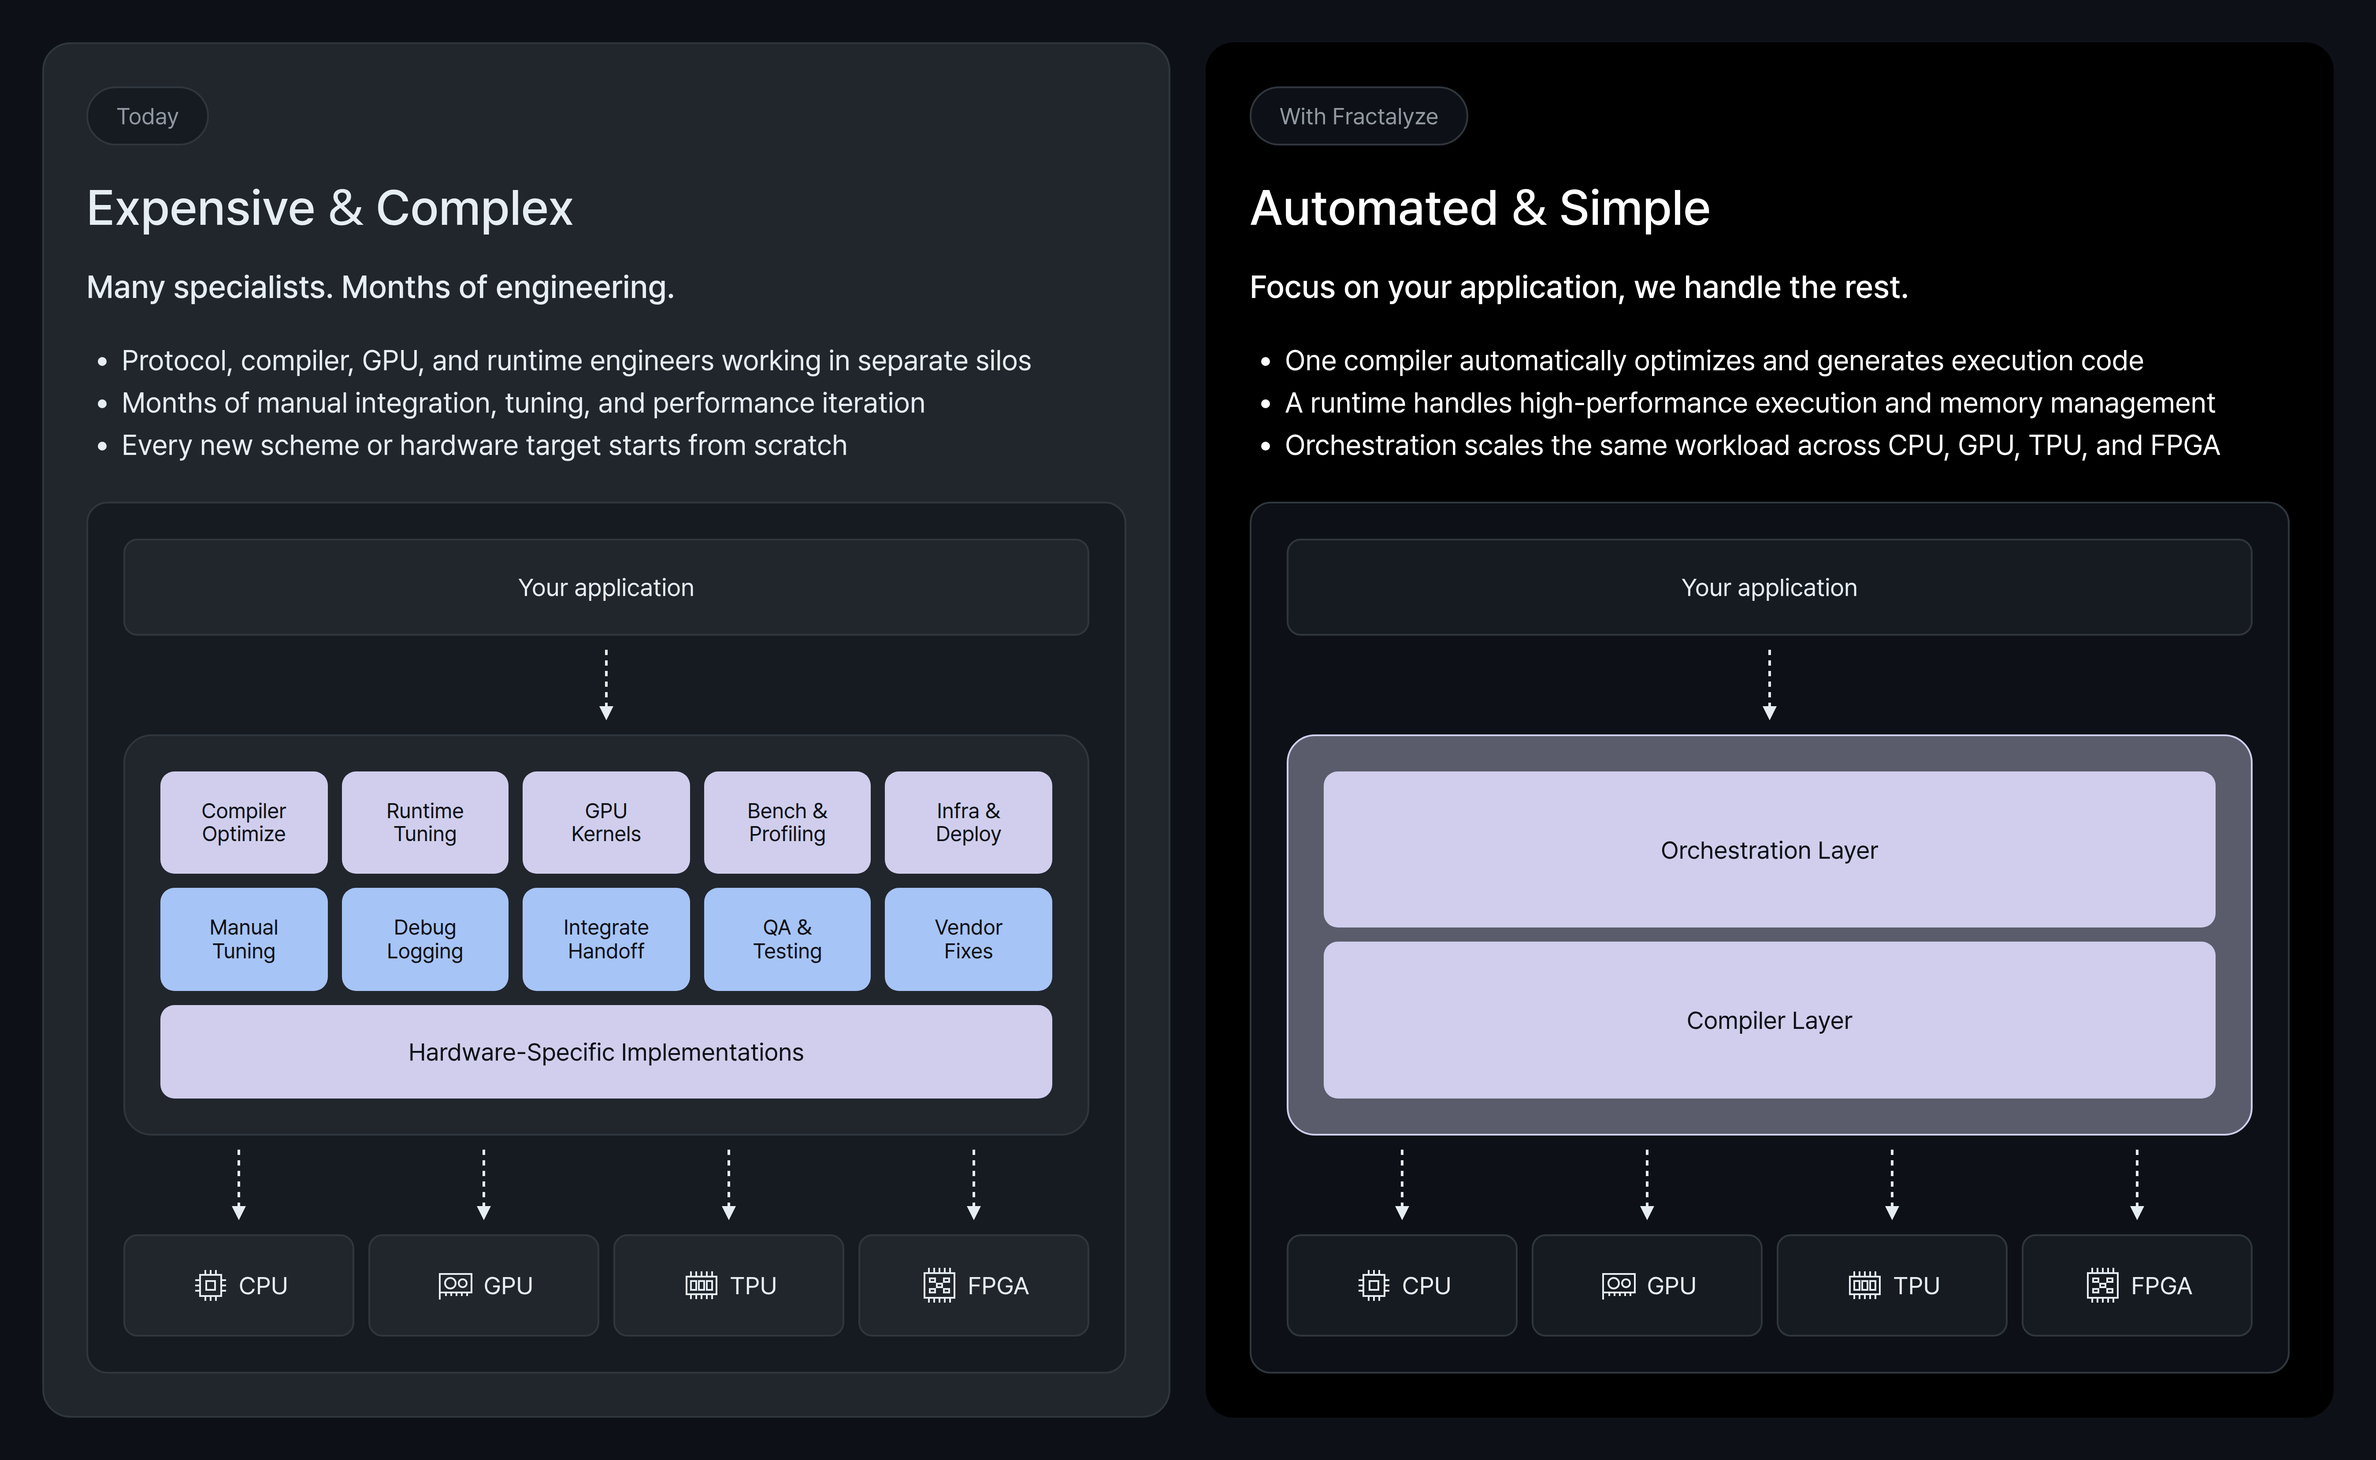
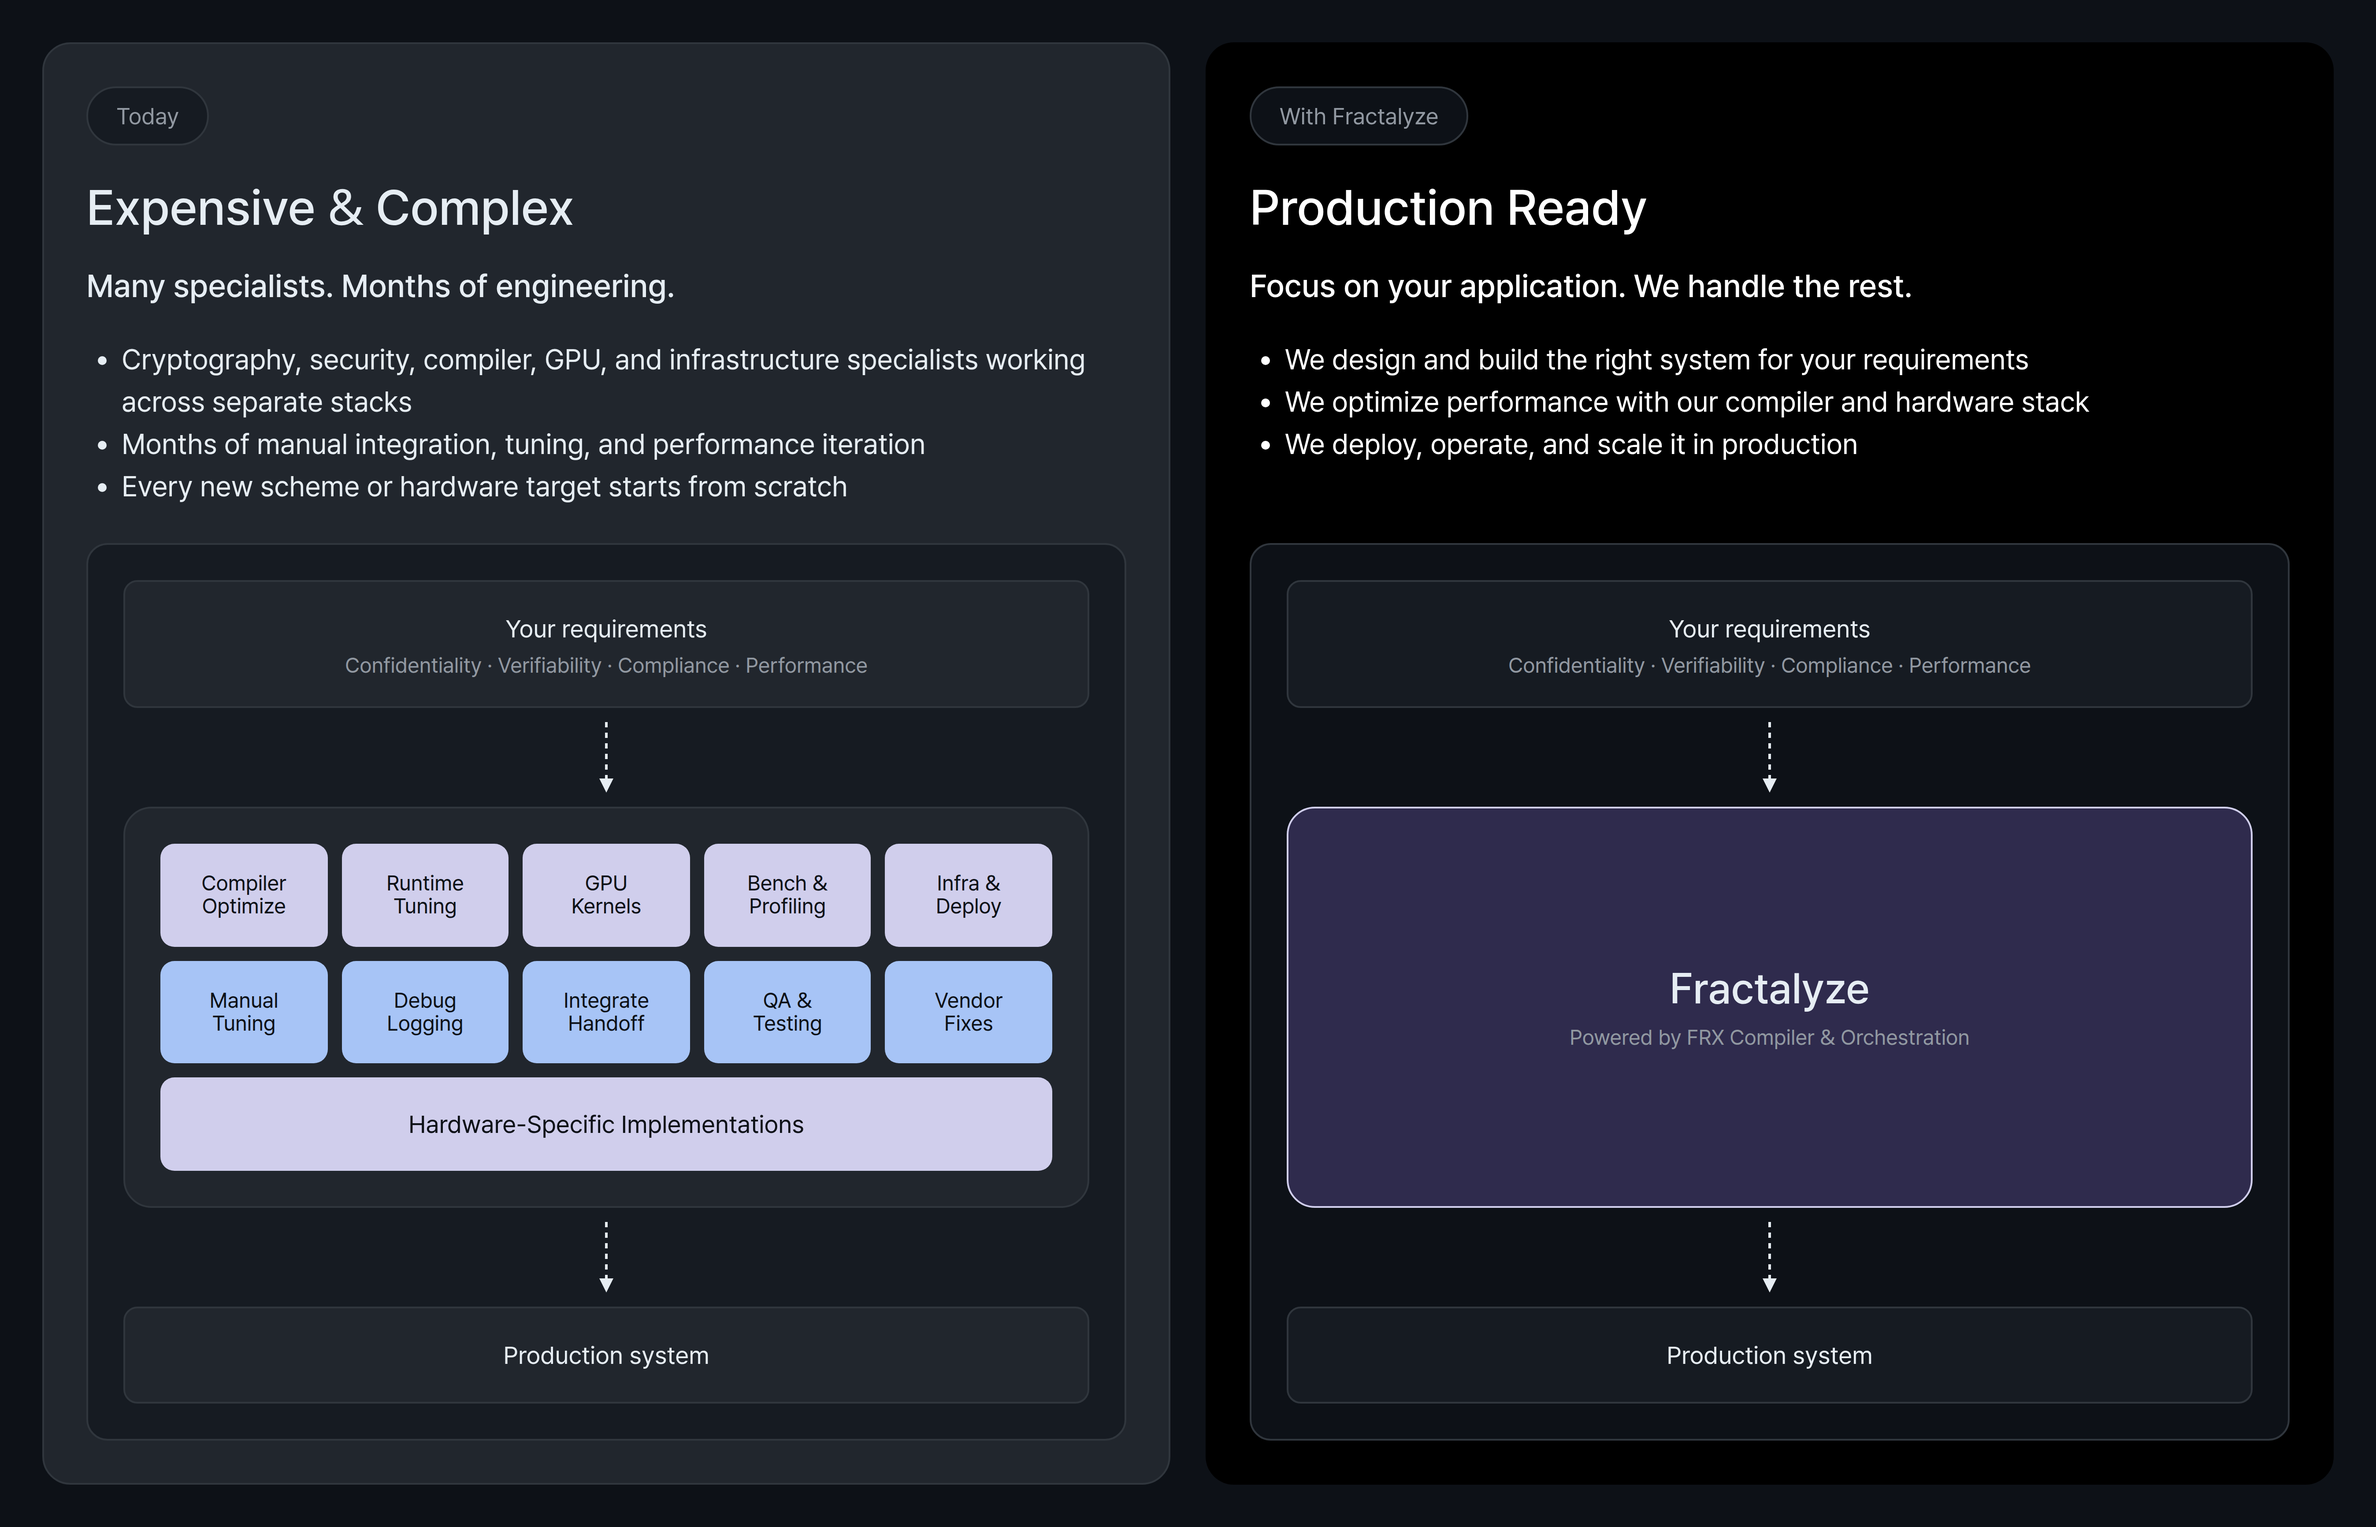
docs: re-render the computing layer diagram from the current site (#26)
The drawing is a photograph of the website, and the website's changed: the
section it is clipped from is now From Complexity to Production, and both
panels run requirements to a production system rather than an application to
the hardware. The heading the renderer finds the section by moved with it, so
the script could no longer locate the target at all.

The dark pass needed one rule it did not have. Every accent block in the
drawing is opaque and keeps its colour through the sweep except the Fractalyze
box, which is 40% over what sits behind it; on near-black that desaturates to a
grey, leaving it duller than the eleven chips it is drawn to answer and
inverting the emphasis of the pair. It is given a deep accent of its own, the
text over it already going light in this pass where the chips' goes dark.

The alt text described the old drawing and now describes this one.

diff --git a/profile/assets/render-diagrams.py b/profile/assets/render-diagrams.py
@@ -42,7 +42,7 @@ WIDTH, SCALE = 1920, 2
 # to the element that is the drawing itself, so that the README can supply its
 # own headings and prose.
 TARGETS = [
-    ("computing-layer", "/", "The Computing Layer for Cryptography", "div.grid"),
+    ("computing-layer", "/", "From Complexity to Production", "div.grid"),
     ("pipeline", "/compiler", "From Python to the Hardware", "ol"),
     ("benchmark", "/compiler", "The Verifiable Difference a Compiler Makes", "div.rounded-2xl"),
 ]
@@ -70,6 +70,13 @@ DARK_CSS = """
      the hardware bar. Same element carries both classes. */
   .bg-accent.text-ink, .bg-accent-blue.text-ink,
   .bg-accent .text-ink, .bg-accent-blue .text-ink { color: #0d1117 !important; }
+  /* The one accent that is not opaque. Every other accent block keeps its own
+     colour through the sweep, but this one is 40% over whatever is behind it,
+     and behind it here is near-black, which desaturates it to a grey. It ends up
+     duller than the eleven chips it is supposed to answer, inverting the
+     emphasis the pair is drawn to make. Deep rather than pale, since the text on
+     it goes light in this pass where the chips' text goes dark. */
+  .bg-accent\\/40 { background-color: #2f2b4d !important; }
   /* The pipeline's connector is a black hairline and would vanish. The black
      panel opposite the Today one is a div and must stay black. */
   span.bg-ink { background-color: #6e7681 !important; }

diff --git a/profile/README.md b/profile/README.md
@@ -19,7 +19,7 @@ A unified platform that automatically transforms high-level cryptographic applic
 <picture>
   <source media="(prefers-color-scheme: dark)" srcset="https://raw.githubusercontent.com/fractalyze/.github/main/profile/assets/computing-layer-dark.png" />
   <source media="(prefers-color-scheme: light)" srcset="https://raw.githubusercontent.com/fractalyze/.github/main/profile/assets/computing-layer-light.png" />
-  <img alt="Today, an application reaches the hardware through five specialist teams, five rounds of handwork and a hardware-specific implementation. With Fractalyze, it reaches the same hardware through one orchestration and compiler layer." src="https://raw.githubusercontent.com/fractalyze/.github/main/profile/assets/computing-layer-light.png" />
+  <img alt="Today, a set of requirements reaches a production system through ten rounds of specialist work and handwork and a hardware-specific implementation. With Fractalyze, the same requirements reach the same production system through one compiler and orchestration layer." src="https://raw.githubusercontent.com/fractalyze/.github/main/profile/assets/computing-layer-light.png" />
 </picture>
 
 Today, getting confidential and verifiable systems into production means cryptography, security, compiler, GPU and infrastructure specialists working in separate silos, months of manual integration and tuning, and starting over for every new scheme or hardware target. We replace that with one compiler that optimizes and generates execution code, a runtime that handles execution and memory, and orchestration that scales the same workload across CPU, GPU, TPU and FPGA.
